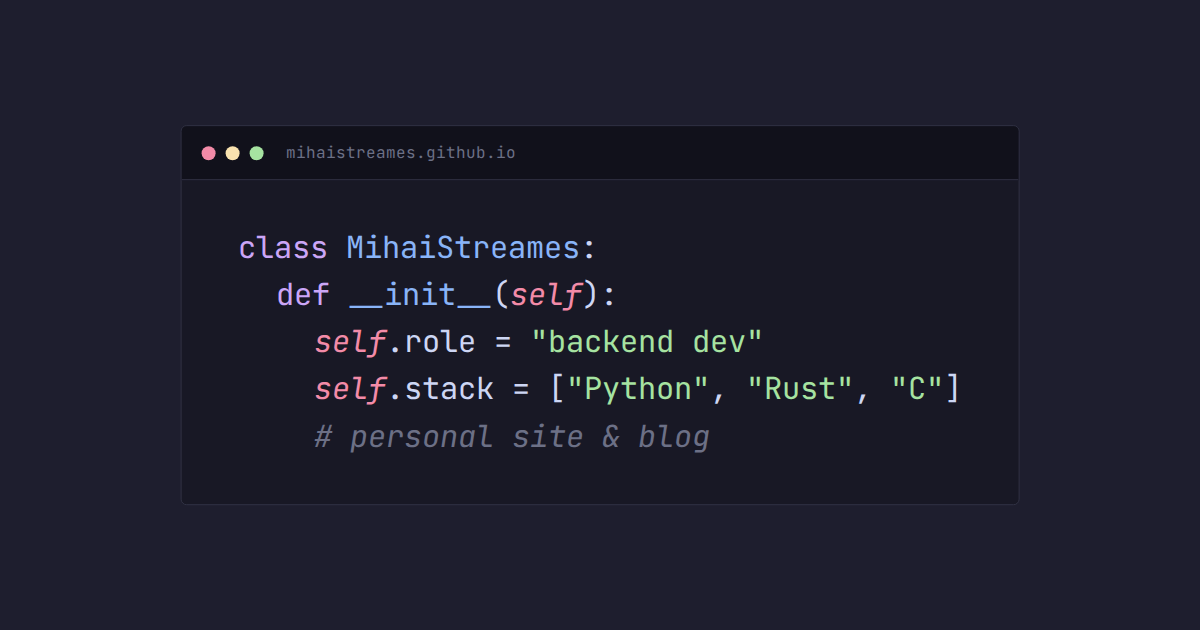
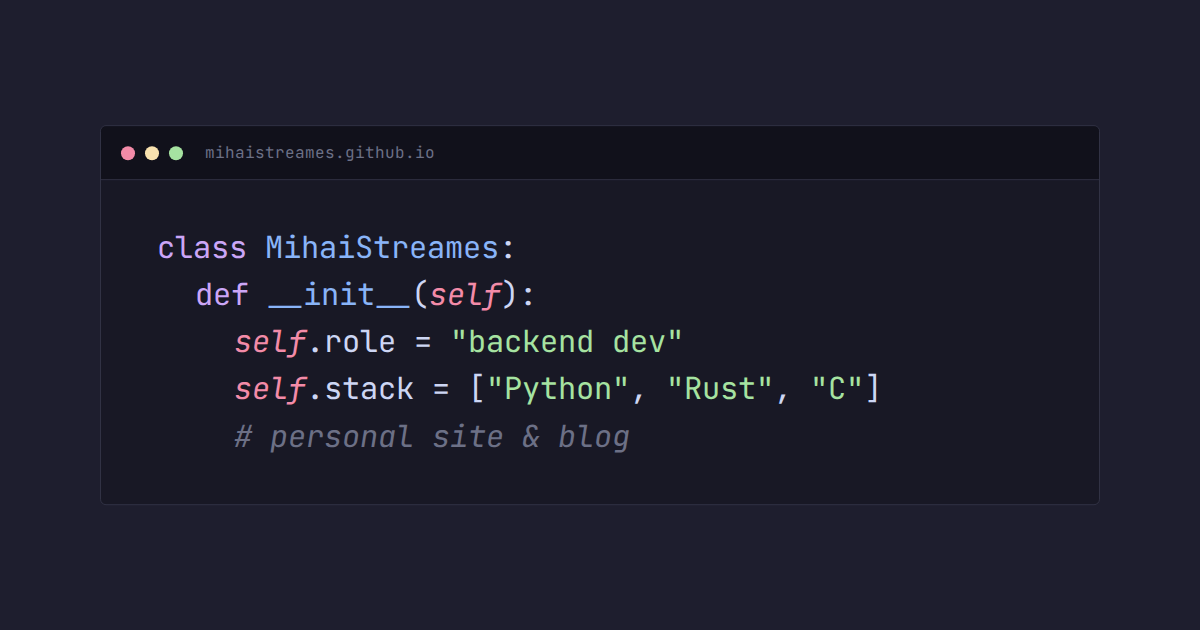
fix(post): correct tokount benchmark timings and add hero gif
- update v2.1.8 Linux kernel run from 743ms to 915ms
- remove fabricated repeated-run numbers, reframe 779ms as step down from 915ms
- fix sc`c typo and reattribute 168ms desktop number to v2.1.9
- retitle post and tighten excerpt
- add tokount-hero.gif and wire into frontmatter image field
- regenerate centered favicon and og-image via scripted trim + extent pipeline

diff --git a/src/posts/what-earns-the-speed.md b/src/posts/what-earns-the-speed.md
@@ -10,6 +10,7 @@ tags:
   - simd
   - command-line
 excerpt: How a shim around tokei turned into a ground-up SIMD line counter.
+image: /images/posts/tokount-hero.gif
 ---
 
 ## Why another one
@@ -52,17 +53,17 @@ A few days before the release, during that same churn, I had a lucky run that la
 
 Looks great in isolation. Wasn't reproducible. The 617ms was a good-variance run; the mean was noticeably higher.
 
-April 16 was when I took the perf work seriously and shipped v2.1.8. The headline was __stability, not raw speed__. I dropped `mmap` in favor of a reused 64 KiB buffer and `read_to_end`. The mean shifted a bit but the stddev collapsed from ~49ms to ~14ms. I inlined the delimiter match in the hot FSM loop. Scalar 1/2/3-byte arms instead of `[u8]::starts_with`. That dropped tokount-owned `__memcmp` samples from 582 million to 0. I removed `memmap2`, `rayon`, and `crossbeam-channel` entirely. The Linux kernel run at v2.1.8 was __743ms__:
+April 16 was when I took the perf work seriously and shipped v2.1.8. The headline was __stability, not raw speed__. I dropped `mmap` in favor of a reused 64 KiB buffer and `read_to_end`. The mean shifted a bit but the stddev collapsed from ~49ms to ~14ms. I inlined the delimiter match in the hot FSM loop. Scalar 1/2/3-byte arms instead of `[u8]::starts_with`. That dropped tokount-owned `__memcmp` samples from 582 million to 0. I removed `memmap2`, `rayon`, and `crossbeam-channel` entirely. The Linux kernel run at v2.1.8 was __915ms__:
 
-![tokount v2.1.8 Linux kernel benchmark, 743ms](/images/posts/tokount-v218-linux-kernel.png)
+![tokount v2.1.8 Linux kernel benchmark, 915ms](/images/posts/tokount-v218-linux-kernel.png)
 
-Actually slightly slower in absolute mean than the lucky-run 617ms chart, because the earlier number was cherry-picked by variance. What mattered is that 743ms was __boringly reproducible__. You could run it ten times and see 735, 742, 748, 740, 751. That's when the tool stopped feeling like a prototype.
+Actually slightly slower in absolute mean than the lucky-run 617ms chart, because the earlier number was cherry-picked by variance. What mattered is that 915ms was __boringly reproducible__. You could run it ten times and see numbers clustered tightly together. That's when the tool stopped feeling like a prototype.
 
 Today, on v2.1.9, same laptop, tmpfs:
 
 ![tokount v2.1.9 Linux kernel benchmark, 779ms](/images/posts/tokount-latest-linux-kernel.png)
 
-Within noise of v2.1.8. On my desktop (i7-10700K, 32GB, tmpfs), v2.1.8 lands at __168ms__. That's 5.3× `tokei` and 5.3× sc`c, with a tight stddev.
+A step down from v2.1.8's 915ms, same shape of stability. On my desktop (i7-10700K, 32GB, tmpfs), v2.1.9 lands at __168ms__. That's 5.3× `tokei` and 5.3× `scc`, with a tight stddev.
 
 ## The one loop
 
